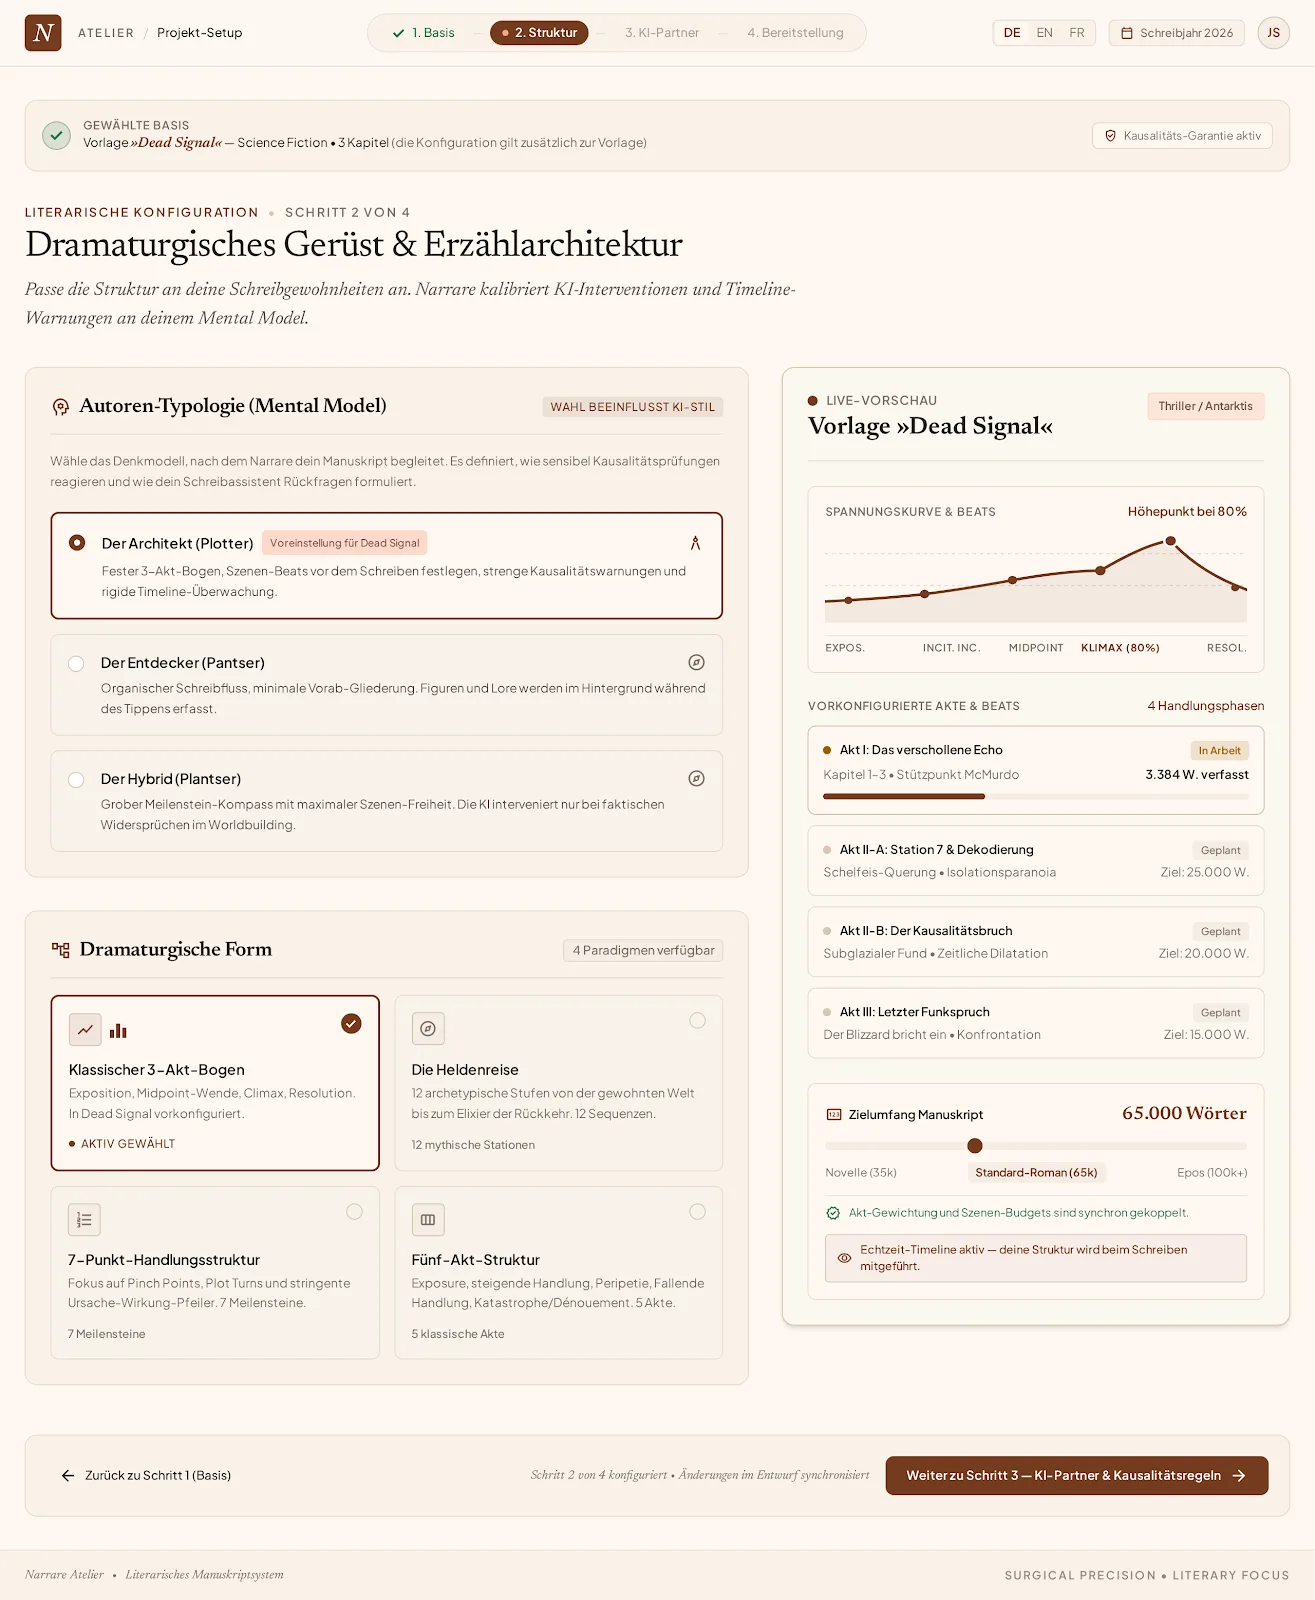
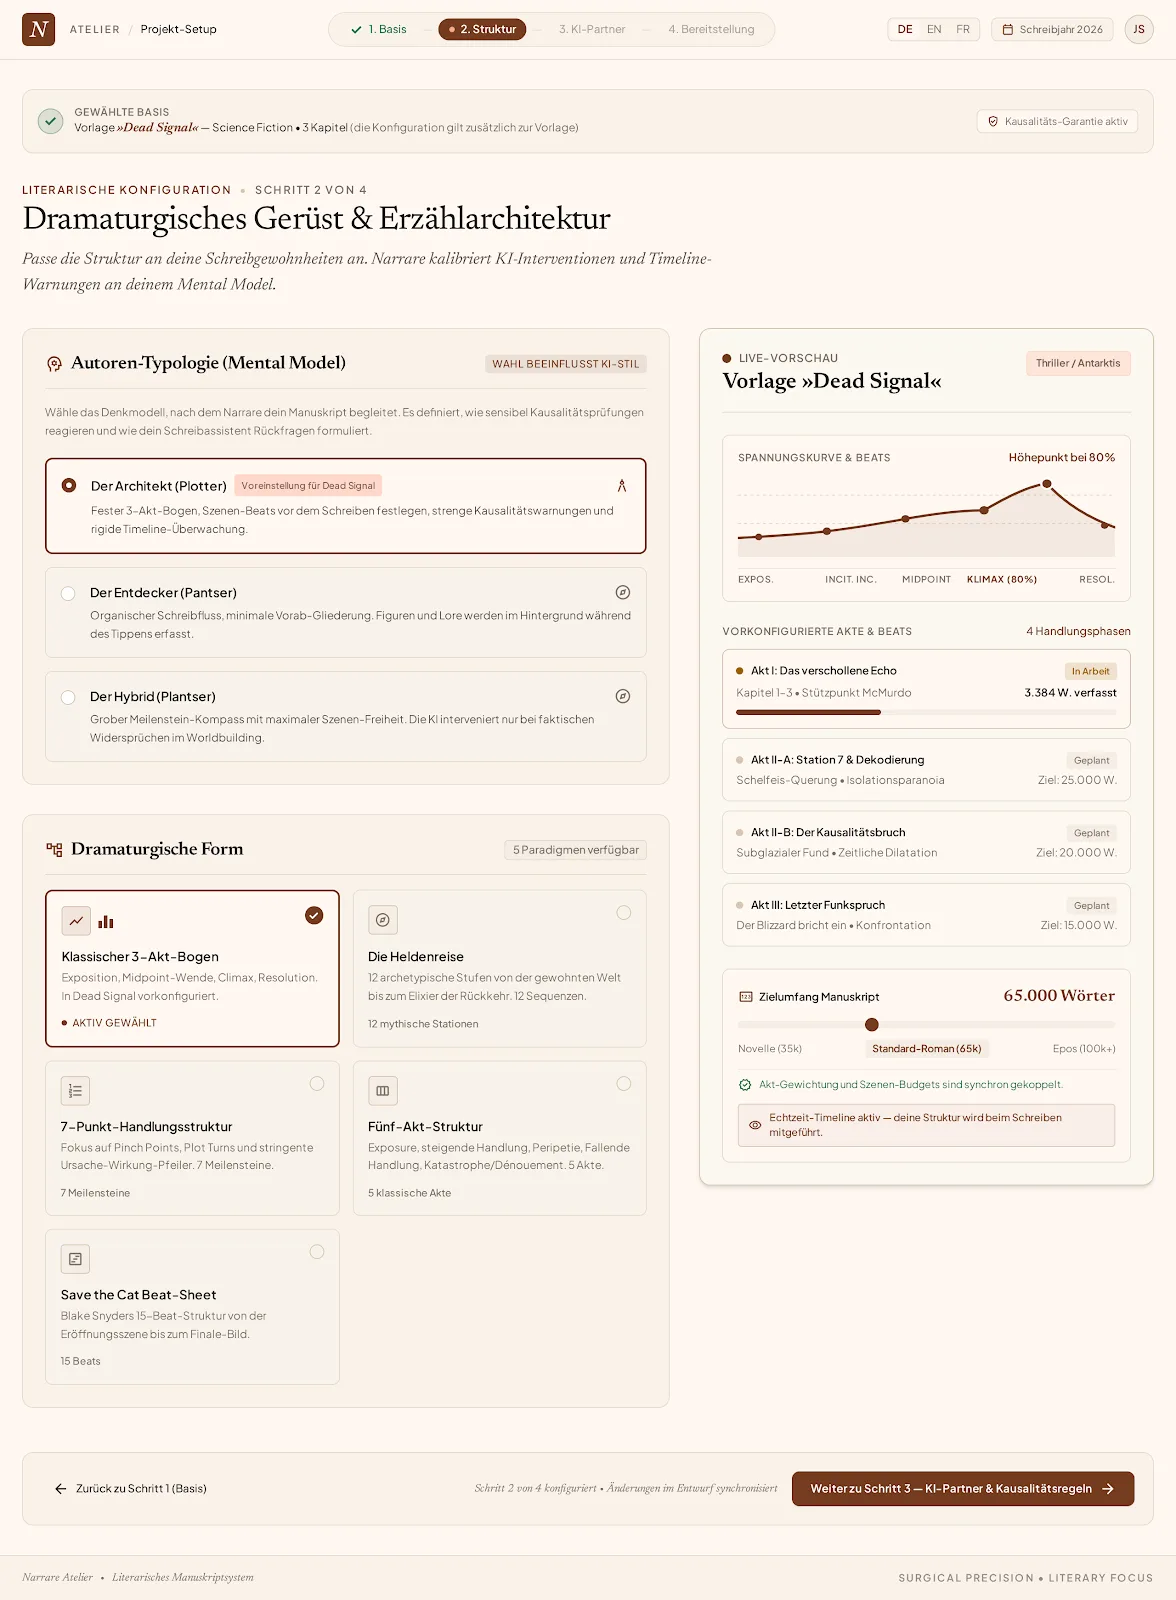
chore(docs): the step-2 draft gains its fifth form
Closes #852, closes #853

Assisted-by: OpenCode (qwencloud/qwen4-max-preview)

diff --git a/docs/design/stitch/screens/library/setup-step2-dramaturgie-struktur.html b/docs/design/stitch/screens/library/setup-step2-dramaturgie-struktur.html
@@ -223,7 +223,7 @@
 <span class="material-symbols-outlined text-[20px] text-primary">account_tree</span>
 <h2 class="font-editorial-title text-xl text-on-surface font-semibold tracking-tight">Dramaturgische Form</h2>
 </div>
-<span class="text-xs text-text-muted font-medium bg-surface-container px-2 py-0.5 rounded border border-border-parchment">4 Paradigmen verfügbar</span>
+<span class="text-xs text-text-muted font-medium bg-surface-container px-2 py-0.5 rounded border border-border-parchment">5 Paradigmen verfügbar</span>
 </div>
 <div class="grid grid-cols-1 sm:grid-cols-2 gap-3.5">
 <!-- Paradigm 1: Classic 3-Act (Active) -->
@@ -303,7 +303,7 @@
 </div>
 <div class="text-[11px] text-text-muted font-medium">5 klassische Akte</div>
 </div>
-</div></section>
+<div class="relative p-4 rounded-lg bg-pergament-card border border-border-parchment hover:border-border-parchment-strong shadow-xs flex flex-col justify-between gap-3 cursor-pointer transition-all sm:col-span-2 md:col-span-1"><div class="flex items-start justify-between"><div class="w-8 h-8 rounded bg-surface-container border border-border-parchment-strong text-text-muted flex items-center justify-center"><span class="material-symbols-outlined text-[18px]">view_timeline</span></div><span class="w-4 h-4 rounded-full border border-border-parchment-strong"></span></div><div><span class="font-ui font-semibold text-sm text-on-surface block">Save the Cat Beat-Sheet</span><p class="text-xs text-text-muted leading-relaxed mt-1">Blake Snyders 15-Beat-Struktur von der Eröffnungsszene bis zum Finale-Bild.</p></div><div class="text-[11px] text-text-muted font-medium">15 Beats</div></div></div></section>
 </div>
 <!-- RIGHT COLUMN: Tactile Parchment Preview (5 Cols) -->
 <div class="lg:col-span-5 flex flex-col gap-6">

diff --git a/docs/design/stitch/README.md b/docs/design/stitch/README.md
@@ -13,11 +13,11 @@ decide.
 
 Each screen is a pair in `screens/<area>/`:
 
-- `<name>.webp` — the rendered draft, WebP quality 82, at its export size: 2560 px
-  wide (2× the 1280 px canvas) in the first archive; later additions keep their
-  native export size (the 2026-11-13 onboarding drafts are 1600 px, one 1179×1600
-  portrait). Opens offline and in the browser. The 2026-11-14 harmonized drafts
-  supersede the 2026-11-13 first drafts; git history keeps the earlier versions.
+- `<name>.webp` — the rendered draft, WebP quality 82, at its native export size:
+  2560 px wide (2× the 1280 px canvas) in the first archive, the smaller exports
+  of later rounds. Opens offline and in the browser. The 2026-11-14 harmonized
+  drafts supersede the 2026-11-13 first drafts; git history keeps the earlier
+  versions.
   The 2026-11-14 `cover-system` sheet is a clarification of the cover object, not
   a screen template: Stitch offers it only as a downscaled export (412×1600 of a
   2560×9934 desktop canvas), so its preview is a thumbnail and the HTML is the
@@ -71,7 +71,7 @@ Documents from the same project are under [`documents/`](documents/):
 |  | [`integrated-suite`](screens/library/integrated-suite.webp) | Narrare — Integrierte Gesamtsuite (Regal, Workspace & KI-Dock) | 3664 px |
 |  | [`welcome-atelier`](screens/library/welcome-atelier.webp) | Willkommen im Atelier (Überarbeitet) | 1600 px |
 |  | [`setup-step1-basis-vorlage`](screens/library/setup-step1-basis-vorlage.webp) | Projekt-Setup: Start oder Demo-Vorlage wählen | 1600 px |
-|  | [`setup-step2-dramaturgie-struktur`](screens/library/setup-step2-dramaturgie-struktur.webp) | Projekt-Setup: Dramaturgie & Struktur (Korrigiert) | 1600 px |
+|  | [`setup-step2-dramaturgie-struktur`](screens/library/setup-step2-dramaturgie-struktur.webp) | Projekt-Setup: Dramaturgie & Struktur (5 Paradigmen) | 1600 px |
 |  | [`setup-step3-ki-regeln-tonalitaet`](screens/library/setup-step3-ki-regeln-tonalitaet.webp) | Projekt-Setup: KI-Partner & Kausalitätsregeln | 1280 px |
 |  | [`setup-step4-bereitstellung-start`](screens/library/setup-step4-bereitstellung-start.webp) | Projekt-Setup: Bereitstellung & Start (Überarbeitet) | 1280 px |
 |  | [`shelf-filter-open`](screens/library/shelf-filter-open.webp) | Bücherregal — Filter geöffnet | 1546 px |
